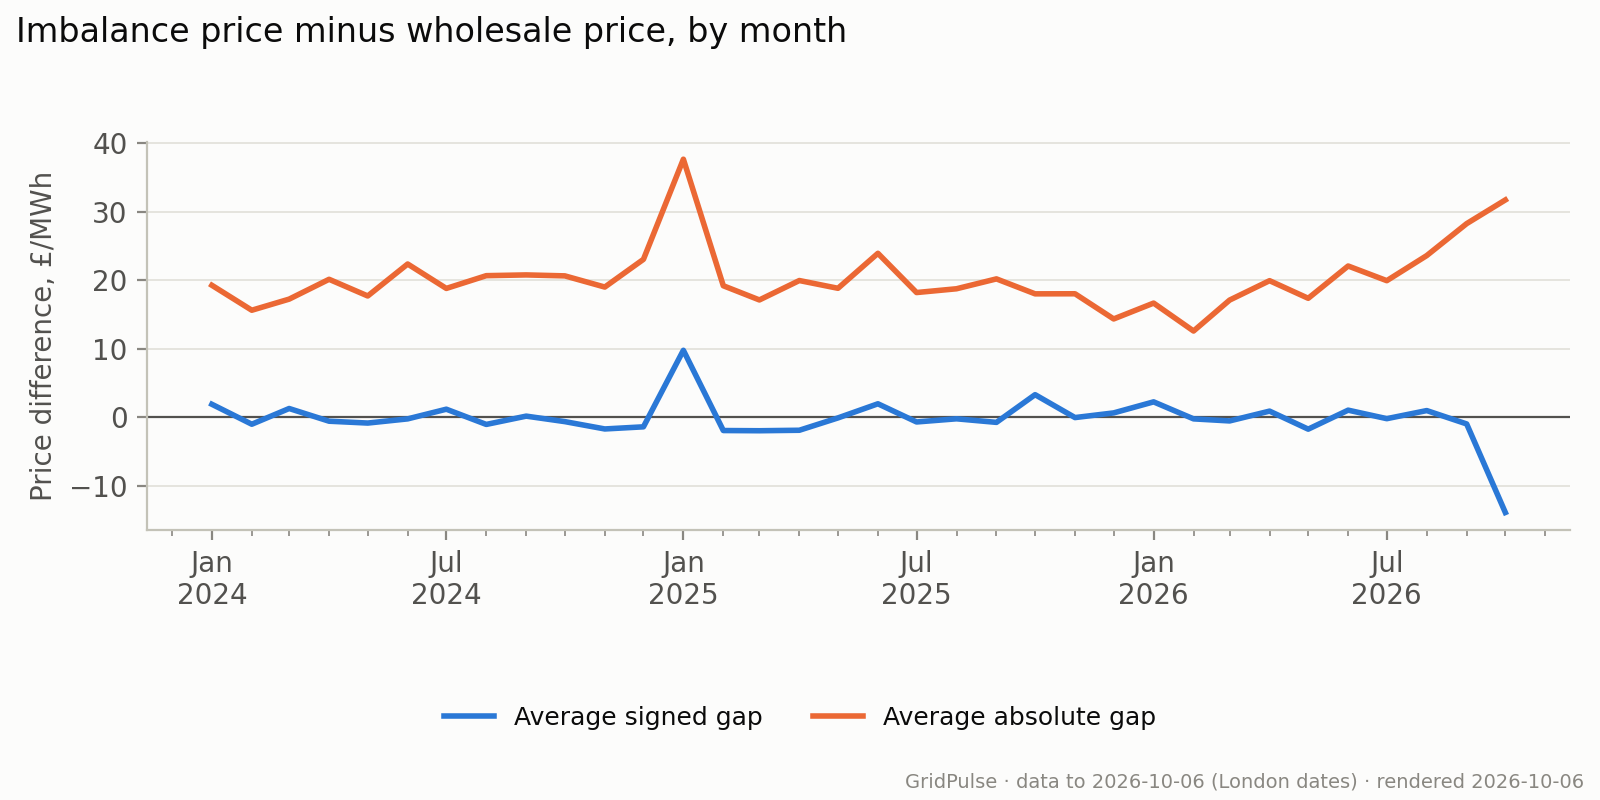
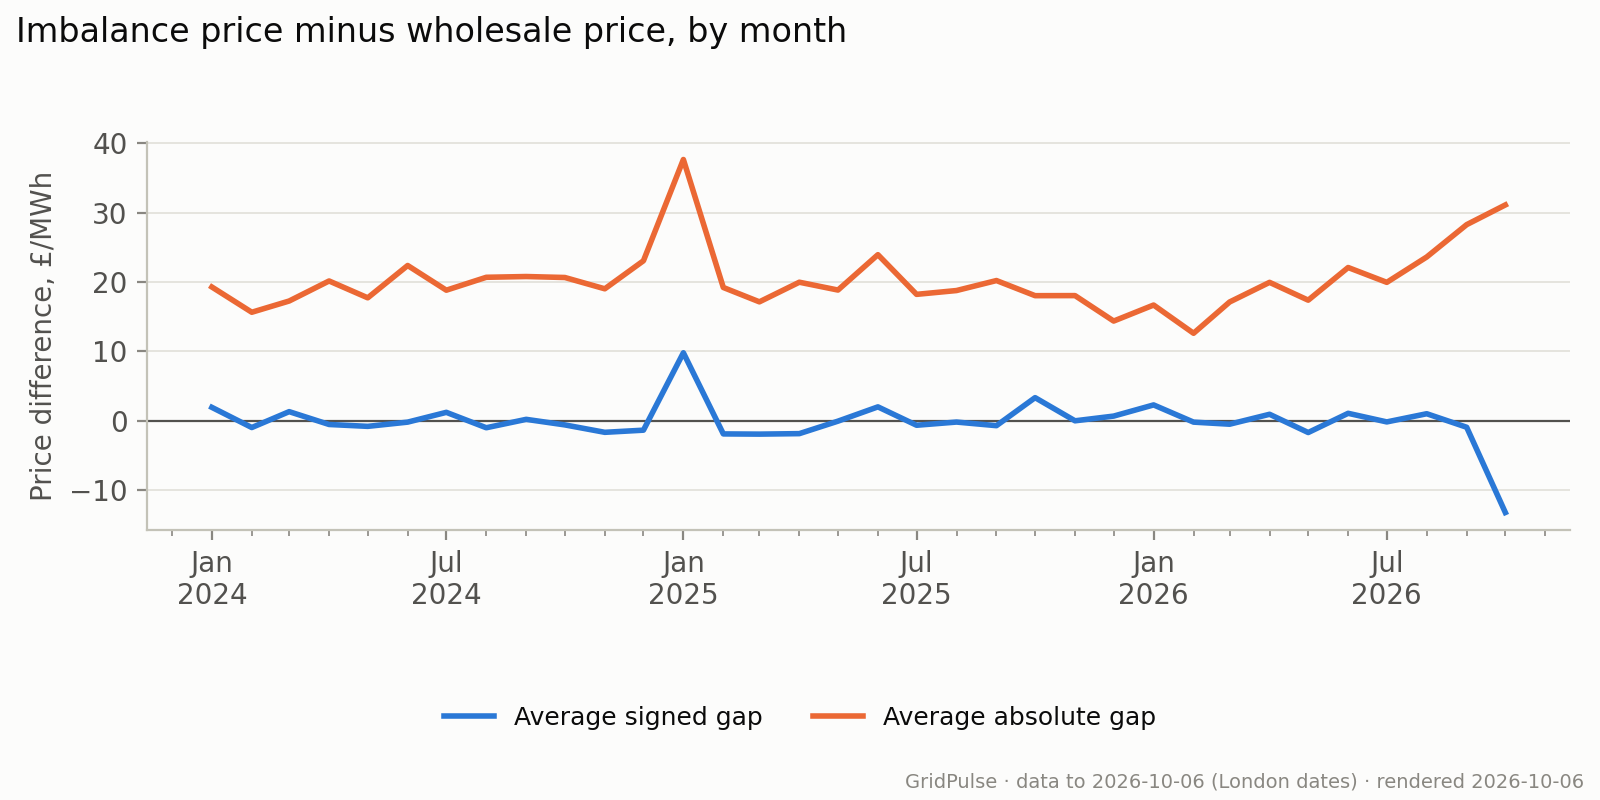
Rebuild from data to 2026-10-06, built 2026-10-06 08:50 UTC

diff --git a/index.html b/index.html
@@ -68,12 +68,12 @@ how electricity flows across borders, and how accurately demand is forecast.</p>
 <div><a href="#prices"><strong>Prices and grid conditions</strong></a><ul><li><a href="#negative_frequency">Negative Wholesale Price Frequency</a></li><li><a href="#negative_conditions">Grid Conditions During Negative Prices</a></li><li><a href="#imbalance_spread">Imbalance and Wholesale Price Gap</a></li><li><a href="#imbalance_conditions">Imbalance Prices by Grid Conditions</a></li></ul></div>
 <div><a href="#forecast-accuracy"><strong>Forecast accuracy</strong></a><ul><li><a href="#demand_accuracy">Average Demand Forecast Error by Hours Ahead</a></li><li><a href="#carbon_accuracy">Carbon Forecast Error by Month</a></li></ul></div>
 <div><a href="#data-quality"><strong>Data quality</strong></a><ul><li><a href="#coverage">Monthly Data Coverage</a></li><li><a href="#publication_coverage">Demand Forecast Publication Coverage</a></li></ul></div></nav></details>
-<p class="banner" id="built" data-built="2026-10-06T02:50:18Z" data-ingested="2026-10-06T02:00:26Z">
-Analysis built 2026-10-06 02:50 UTC. Each chart uses its stated window;
+<p class="banner" id="built" data-built="2026-10-06T08:50:17Z" data-ingested="2026-10-06T08:00:30Z">
+Analysis built 2026-10-06 08:50 UTC. Each chart uses its stated window;
 current-month results are provisional. Scheduled refresh: every 6 hours.</p>
 <details class="provenance"><summary>Data dates and source code</summary>
 <p class="meta">National carbon actuals: data to 2026-10-06 (London dates).
-Most recent ingestion across sources: 2026-10-06 02:00 UTC.
+Most recent ingestion across sources: 2026-10-06 08:00 UTC.
 These timestamps do not establish completeness or freshness for every source.
 “As of” refers to the build date. Select a chart to view it full size.</p>
 <a href="https://github.com/thrkld/gridpulse">Python, SQL and dbt project on GitHub</a></details>
@@ -210,7 +210,7 @@ These timestamps do not establish completeness or freshness for every source.
 <h4>Limitations</h4>
 <p class="caveat">The gap is not a participant&#x27;s realised trading profit or imbalance cost. Monthly means can conceal large individual price spikes. The current month is incomplete.</p>
 <details><summary>How to read this graph and methodology</summary><p>For each half hour with both prices since January 2024, subtract wholesale price from imbalance price. Average these differences within each month for the blue line: above zero means imbalance prices were higher. For the orange line, take the absolute value of each difference before averaging, so positive and negative gaps cannot cancel. The overall finding weights monthly means by their matched-period counts; minor rounding differences are possible. Prices are in pounds per megawatt-hour (£/MWh), and today is excluded.</p></details>
-<details><summary>Numbers behind the chart</summary><div class="table-scroll" tabindex="0" role="region" aria-label="Data for Imbalance and Wholesale Price Gap"><table><thead><tr><th>Month</th><th>Mean spread GBP/MWh</th><th>Mean absolute spread GBP/MWh</th><th>Matched periods</th></tr></thead><tbody><tr><td>2024-01-01</td><td>1.92</td><td>19.27</td><td>1488</td></tr><tr><td>2024-02-01</td><td>-0.99</td><td>15.63</td><td>1392</td></tr><tr><td>2024-03-01</td><td>1.3</td><td>17.25</td><td>1486</td></tr><tr><td>2024-04-01</td><td>-0.55</td><td>20.14</td><td>1439</td></tr><tr><td>2024-05-01</td><td>-0.82</td><td>17.71</td><td>1488</td></tr><tr><td>2024-06-01</td><td>-0.21</td><td>22.37</td><td>1440</td></tr><tr><td>2024-07-01</td><td>1.2</td><td>18.81</td><td>1488</td></tr><tr><td>2024-08-01</td><td>-1.02</td><td>20.67</td><td>1488</td></tr><tr><td>2024-09-01</td><td>0.19</td><td>20.78</td><td>1440</td></tr><tr><td>2024-10-01</td><td>-0.61</td><td>20.64</td><td>1490</td></tr><tr><td>2024-11-01</td><td>-1.68</td><td>19.01</td><td>1440</td></tr><tr><td>2024-12-01</td><td>-1.37</td><td>23.05</td><td>1488</td></tr><tr><td>2025-01-01</td><td>9.79</td><td>37.65</td><td>1488</td></tr><tr><td>2025-02-01</td><td>-1.91</td><td>19.2</td><td>1344</td></tr><tr><td>2025-03-01</td><td>-1.94</td><td>17.13</td><td>1486</td></tr><tr><td>2025-04-01</td><td>-1.87</td><td>19.96</td><td>1440</td></tr><tr><td>2025-05-01</td><td>-0.07</td><td>18.83</td><td>1488</td></tr><tr><td>2025-06-01</td><td>1.99</td><td>23.93</td><td>1430</td></tr><tr><td>2025-07-01</td><td>-0.66</td><td>18.21</td><td>1488</td></tr><tr><td>2025-08-01</td><td>-0.2</td><td>18.76</td><td>1488</td></tr><tr><td>2025-09-01</td><td>-0.72</td><td>20.2</td><td>1439</td></tr><tr><td>2025-10-01</td><td>3.32</td><td>18.02</td><td>1490</td></tr><tr><td>2025-11-01</td><td>-0.02</td><td>18.03</td><td>1440</td></tr><tr><td>2025-12-01</td><td>0.66</td><td>14.36</td><td>1488</td></tr><tr><td>2026-01-01</td><td>2.27</td><td>16.67</td><td>1488</td></tr><tr><td>2026-02-01</td><td>-0.21</td><td>12.6</td><td>1344</td></tr><tr><td>2026-03-01</td><td>-0.51</td><td>17.11</td><td>1486</td></tr><tr><td>2026-04-01</td><td>0.92</td><td>19.94</td><td>1440</td></tr><tr><td>2026-05-01</td><td>-1.71</td><td>17.37</td><td>1486</td></tr><tr><td>2026-06-01</td><td>1.06</td><td>22.08</td><td>1440</td></tr><tr><td>2026-07-01</td><td>-0.18</td><td>19.94</td><td>1482</td></tr><tr><td>2026-08-01</td><td>1</td><td>23.6</td><td>1488</td></tr><tr><td>2026-09-01</td><td>-0.95</td><td>28.26</td><td>1436</td></tr><tr><td>2026-10-01</td><td>-13.86</td><td>31.71</td><td>240</td></tr></tbody></table></div></details>
+<details><summary>Numbers behind the chart</summary><div class="table-scroll" tabindex="0" role="region" aria-label="Data for Imbalance and Wholesale Price Gap"><table><thead><tr><th>Month</th><th>Mean spread GBP/MWh</th><th>Mean absolute spread GBP/MWh</th><th>Matched periods</th></tr></thead><tbody><tr><td>2024-01-01</td><td>1.92</td><td>19.27</td><td>1488</td></tr><tr><td>2024-02-01</td><td>-0.99</td><td>15.63</td><td>1392</td></tr><tr><td>2024-03-01</td><td>1.3</td><td>17.25</td><td>1486</td></tr><tr><td>2024-04-01</td><td>-0.55</td><td>20.14</td><td>1439</td></tr><tr><td>2024-05-01</td><td>-0.82</td><td>17.71</td><td>1488</td></tr><tr><td>2024-06-01</td><td>-0.21</td><td>22.37</td><td>1440</td></tr><tr><td>2024-07-01</td><td>1.2</td><td>18.81</td><td>1488</td></tr><tr><td>2024-08-01</td><td>-1.02</td><td>20.67</td><td>1488</td></tr><tr><td>2024-09-01</td><td>0.19</td><td>20.78</td><td>1440</td></tr><tr><td>2024-10-01</td><td>-0.61</td><td>20.64</td><td>1490</td></tr><tr><td>2024-11-01</td><td>-1.68</td><td>19.01</td><td>1440</td></tr><tr><td>2024-12-01</td><td>-1.37</td><td>23.05</td><td>1488</td></tr><tr><td>2025-01-01</td><td>9.79</td><td>37.65</td><td>1488</td></tr><tr><td>2025-02-01</td><td>-1.91</td><td>19.2</td><td>1344</td></tr><tr><td>2025-03-01</td><td>-1.94</td><td>17.13</td><td>1486</td></tr><tr><td>2025-04-01</td><td>-1.87</td><td>19.96</td><td>1440</td></tr><tr><td>2025-05-01</td><td>-0.07</td><td>18.83</td><td>1488</td></tr><tr><td>2025-06-01</td><td>1.99</td><td>23.93</td><td>1430</td></tr><tr><td>2025-07-01</td><td>-0.66</td><td>18.21</td><td>1488</td></tr><tr><td>2025-08-01</td><td>-0.2</td><td>18.76</td><td>1488</td></tr><tr><td>2025-09-01</td><td>-0.72</td><td>20.2</td><td>1439</td></tr><tr><td>2025-10-01</td><td>3.32</td><td>18.02</td><td>1490</td></tr><tr><td>2025-11-01</td><td>-0.02</td><td>18.03</td><td>1440</td></tr><tr><td>2025-12-01</td><td>0.66</td><td>14.36</td><td>1488</td></tr><tr><td>2026-01-01</td><td>2.27</td><td>16.67</td><td>1488</td></tr><tr><td>2026-02-01</td><td>-0.21</td><td>12.6</td><td>1344</td></tr><tr><td>2026-03-01</td><td>-0.51</td><td>17.11</td><td>1486</td></tr><tr><td>2026-04-01</td><td>0.92</td><td>19.94</td><td>1440</td></tr><tr><td>2026-05-01</td><td>-1.71</td><td>17.37</td><td>1486</td></tr><tr><td>2026-06-01</td><td>1.06</td><td>22.08</td><td>1440</td></tr><tr><td>2026-07-01</td><td>-0.18</td><td>19.94</td><td>1482</td></tr><tr><td>2026-08-01</td><td>1</td><td>23.6</td><td>1488</td></tr><tr><td>2026-09-01</td><td>-0.95</td><td>28.26</td><td>1436</td></tr><tr><td>2026-10-01</td><td>-13.24</td><td>31.1</td><td>240</td></tr></tbody></table></div></details>
 </section>
 <section class="chart" id="imbalance_conditions">
 <h3 class="chart-title">Imbalance Prices by Grid Conditions</h3>
@@ -225,7 +225,7 @@ These timestamps do not establish completeness or freshness for every source.
 <h4>Limitations</h4>
 <p class="caveat">Averages in small groups are unstable and sensitive to extreme prices. Demand and renewable share alone cannot explain price formation; season, fuel prices and system constraints also vary.</p>
 <details><summary>How to read this graph and methodology</summary><p>Rows are 5 GW demand bands; columns are 20-percentage-point renewable bands. Lower bounds are included and upper bounds excluded, except the final renewable band includes 100%. Renewables comprises wind, solar and hydro. Red means a positive average price; blue means a negative average, with stronger colour indicating a larger magnitude. Every eligible half hour since January 2024 needs positive settled demand, a renewable share from 0% to 100% and an imbalance price. The colour scale and headline only compare groups with at least 100 observations, a descriptive filter rather than a statistical significance test. All other observed averages remain labelled in striped cells and listed in the data table. Today is excluded.</p></details>
-<details><summary>Numbers behind the chart</summary><div class="table-scroll" tabindex="0" role="region" aria-label="Data for Imbalance Prices by Grid Conditions"><table><thead><tr><th>Demand bin lower bound GW</th><th>Renewable bin lower bound %</th><th>Mean imbalance price GBP/MWh</th><th>Matched periods</th></tr></thead><tbody><tr><td>10</td><td>40</td><td>60.34</td><td>45</td></tr><tr><td>10</td><td>60</td><td>-7.07</td><td>119</td></tr><tr><td>15</td><td>0</td><td>85.6</td><td>710</td></tr><tr><td>15</td><td>20</td><td>81.46</td><td>2024</td></tr><tr><td>15</td><td>40</td><td>57.47</td><td>2724</td></tr><tr><td>15</td><td>60</td><td>9.94</td><td>1927</td></tr><tr><td>15</td><td>80</td><td>13.92</td><td>7</td></tr><tr><td>20</td><td>0</td><td>92.6</td><td>2128</td></tr><tr><td>20</td><td>20</td><td>91.16</td><td>6106</td></tr><tr><td>20</td><td>40</td><td>78.51</td><td>6224</td></tr><tr><td>20</td><td>60</td><td>32.89</td><td>2619</td></tr><tr><td>25</td><td>0</td><td>106.2</td><td>1964</td></tr><tr><td>25</td><td>20</td><td>100.17</td><td>5615</td></tr><tr><td>25</td><td>40</td><td>87.16</td><td>3829</td></tr><tr><td>25</td><td>60</td><td>55.34</td><td>1147</td></tr><tr><td>30</td><td>0</td><td>113.49</td><td>1151</td></tr><tr><td>30</td><td>20</td><td>93.91</td><td>2382</td></tr><tr><td>30</td><td>40</td><td>85.19</td><td>2271</td></tr><tr><td>30</td><td>60</td><td>68.09</td><td>351</td></tr><tr><td>35</td><td>0</td><td>126.58</td><td>826</td></tr><tr><td>35</td><td>20</td><td>98.39</td><td>1939</td></tr><tr><td>35</td><td>40</td><td>90.36</td><td>1228</td></tr><tr><td>35</td><td>60</td><td>91.03</td><td>5</td></tr><tr><td>40</td><td>0</td><td>199.64</td><td>307</td></tr><tr><td>40</td><td>20</td><td>114.72</td><td>582</td></tr><tr><td>40</td><td>40</td><td>104.88</td><td>97</td></tr><tr><td>45</td><td>0</td><td>1,967</td><td>6</td></tr><tr><td>45</td><td>20</td><td>183.04</td><td>18</td></tr></tbody></table></div></details>
+<details><summary>Numbers behind the chart</summary><div class="table-scroll" tabindex="0" role="region" aria-label="Data for Imbalance Prices by Grid Conditions"><table><thead><tr><th>Demand bin lower bound GW</th><th>Renewable bin lower bound %</th><th>Mean imbalance price GBP/MWh</th><th>Matched periods</th></tr></thead><tbody><tr><td>10</td><td>40</td><td>60.34</td><td>45</td></tr><tr><td>10</td><td>60</td><td>-7.07</td><td>119</td></tr><tr><td>15</td><td>0</td><td>85.6</td><td>710</td></tr><tr><td>15</td><td>20</td><td>81.46</td><td>2024</td></tr><tr><td>15</td><td>40</td><td>57.47</td><td>2724</td></tr><tr><td>15</td><td>60</td><td>9.94</td><td>1927</td></tr><tr><td>15</td><td>80</td><td>13.92</td><td>7</td></tr><tr><td>20</td><td>0</td><td>92.6</td><td>2128</td></tr><tr><td>20</td><td>20</td><td>91.16</td><td>6106</td></tr><tr><td>20</td><td>40</td><td>78.54</td><td>6224</td></tr><tr><td>20</td><td>60</td><td>32.89</td><td>2619</td></tr><tr><td>25</td><td>0</td><td>106.2</td><td>1964</td></tr><tr><td>25</td><td>20</td><td>100.17</td><td>5615</td></tr><tr><td>25</td><td>40</td><td>87.16</td><td>3829</td></tr><tr><td>25</td><td>60</td><td>55.34</td><td>1147</td></tr><tr><td>30</td><td>0</td><td>113.49</td><td>1151</td></tr><tr><td>30</td><td>20</td><td>93.91</td><td>2382</td></tr><tr><td>30</td><td>40</td><td>85.19</td><td>2271</td></tr><tr><td>30</td><td>60</td><td>68.09</td><td>351</td></tr><tr><td>35</td><td>0</td><td>126.58</td><td>826</td></tr><tr><td>35</td><td>20</td><td>98.39</td><td>1939</td></tr><tr><td>35</td><td>40</td><td>90.36</td><td>1228</td></tr><tr><td>35</td><td>60</td><td>91.03</td><td>5</td></tr><tr><td>40</td><td>0</td><td>199.64</td><td>307</td></tr><tr><td>40</td><td>20</td><td>114.72</td><td>582</td></tr><tr><td>40</td><td>40</td><td>104.88</td><td>97</td></tr><tr><td>45</td><td>0</td><td>1,967</td><td>6</td></tr><tr><td>45</td><td>20</td><td>183.04</td><td>18</td></tr></tbody></table></div></details>
 </section>
 <h2 class="topic-heading" id="forecast-accuracy">Forecast accuracy</h2><section class="chart" id="demand_accuracy">
 <h3 class="chart-title">Average Demand Forecast Error by Hours Ahead</h3>
